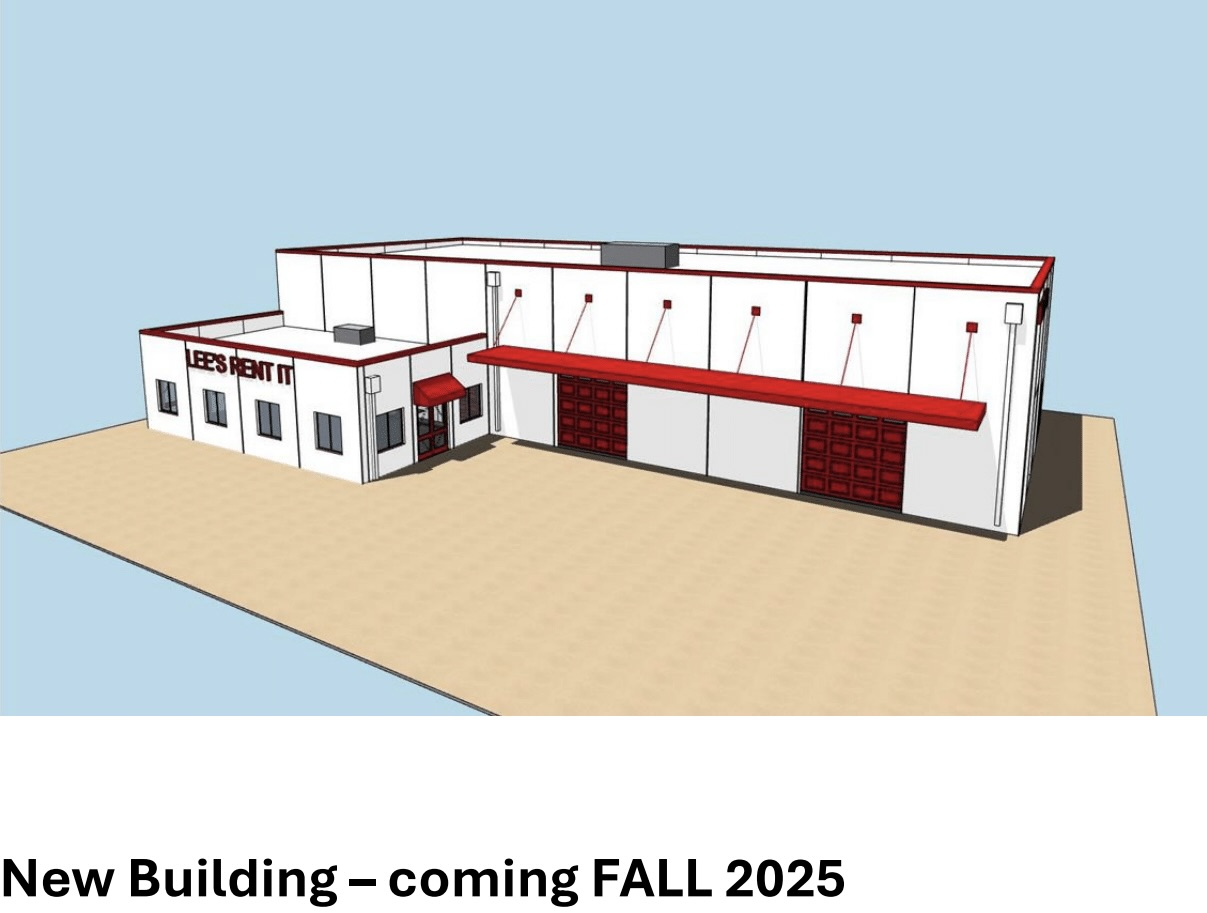
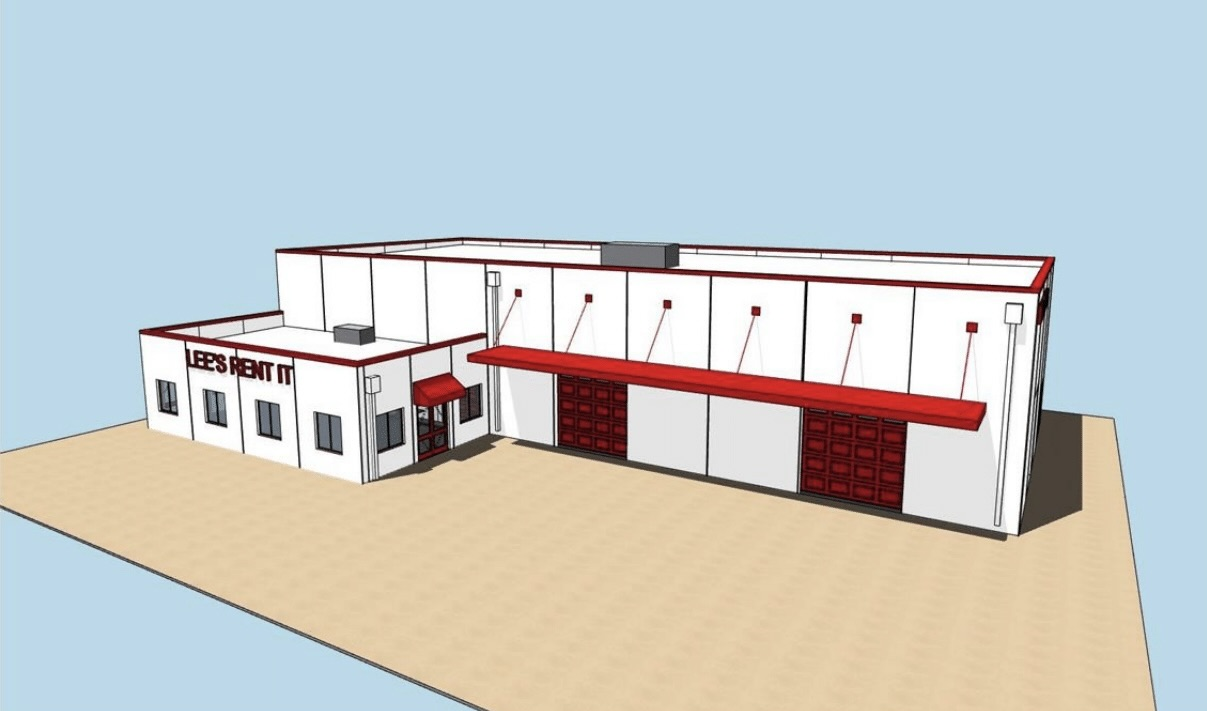
Added small engine repair, changed new building opening date, added a few more items

diff --git a/index.html b/index.html
@@ -77,7 +77,7 @@
         <div class="row">
           <div class="col-lg-12">
             <div class="extension-content text-center" style="background-color: rgb(231, 186, 24); color: white; padding: 15px;">
-              <h5>Mulch Center Now Open!</h5>
+              <h5><strong>Small Engine Repair Now Available! All Makes, All Models</strong></h5>
             </div>
         </div>
       </div>
@@ -130,51 +130,49 @@
 </div>
 </section>
 
-<section class="about section" style="background-color: #F2F2F2;">
+<section class="centered-image-section" style="background-color: #F2F2F2;">
+  <img src="images/smallEngineFlyer.jpg" alt="Small Engine Repair" class="bordered-image">
+</section>
+
+<section class="about section" style="background-color: white; padding: 5px">
   <div class="container">
   <div class="row align-items-center">
     <div class="col-md-6" style="background-color: #9a042f; color: white; border: 4px solid #000; padding: 3%">
       <h2 class="section-subtitle" style="text-align: center;">Check Out Our New Items!</h2>
       <h3 style="font-weight:bold; margin-bottom: 20px;">
-          New Building Coming Fall 2025!
+          New Building Coming Spring 2026!
       </h3>
-      <ul style="list-style-type: disc; padding: 10px; font-size: large;">
-        <li>
-        Mulch Center
-          <ul style="list-style-type: circle; padding-left: 20px; margin-bottom: 10px;">
-              <li>We offer Brown, Black, and Burgundy for $35 a yard</li>
-          </ul>
-        </li>
-        <li>New Cement/Concrete Mixer</li>
-        <li>New Mini Skidsteer</li>
-        <li>New Tow Dollies</li>
-        <li>New Concrete Grinders</li>
-        <li>New Concrete Buggy</li>
+      <ul style="list-style-type: disc; padding: 13px; font-size: large;">
+        <li>New Excavator</li>
+        <li>New Scissor Lift</li>
+        <li>New Tractor</li>
+        <li>New Tractor Attachments</li>
+        <li>New Leaf Vacuum</li>
       </ul>
 
     </div>
-    <div id="photoGallery" class="carousel slide" data-ride="carousel" style="width: 55vh; padding-left: 5%;">
+    <div id="photoGallery" class="carousel slide" data-ride="carousel" style="width: 55vh;">
       <div class="carousel-inner">
         <div class="carousel-item active">
           <img src="images/FirstUpdateItems/New Building.jpeg" class="d-block w-100" alt="Photo 1">
         </div>
         <div class="carousel-item">
-          <img src="images/mulch_center.jpeg" class="d-block w-100" alt="Photo 2">
+          <img src="images/FirstUpdateItems/19 foot scissor lift.jpg" class="d-block w-100" alt="Photo 2">
         </div>
         <div class="carousel-item">
-          <img src="images/FirstUpdateItems/30 in concrete grinder.jpeg" class="d-block w-100" alt="Photo 3">
+          <img src="images/FirstUpdateItems/excavator.jpg" class="d-block w-100" alt="Photo 3">
         </div>
         <div class="carousel-item">
-          <img src="images/FirstUpdateItems/newMiniSkidSteer.png" class="d-block w-100" alt="Photo 4">
+          <img src="images/FirstUpdateItems/leaf vaccume.jpg" class="d-block w-100" alt="Photo 4">
         </div>
         <div class="carousel-item">
-          <img src="images/FirstUpdateItems/concrete buggy WN.jpeg" class="d-block w-100" alt="Photo 5">
+          <img src="images/FirstUpdateItems/tractor.jpg" class="d-block w-100" alt="Photo 7">
         </div>
         <div class="carousel-item">
-          <img src="images/FirstUpdateItems/8 in concrete grinder.jpeg" class="d-block w-100" alt="Photo 6">
+          <img src="images/FirstUpdateItems/tractor attachment 1.jpg" class="d-block w-100" alt="Photo 5">
         </div>
         <div class="carousel-item">
-          <img src="images/FirstUpdateItems/Tow Dolly.jpeg" class="d-block w-100" alt="Photo 7">
+          <img src="images/FirstUpdateItems/tractor attachment 2.jpg" class="d-block w-100" alt="Photo 6">
         </div>
       </div>
       <a class="carousel-control-prev" href="#photoGallery" role="button" data-slide="prev">
@@ -190,7 +188,7 @@
   </div>
 </section>
 
-<section class="about section" style="background-color: #fff;">
+<section class="about section" style="background-color: #F2F2F2;">
   <div class="container">
     <div class="row">
       <div class="col-12"> <!-- This will span the full width -->
@@ -257,7 +255,7 @@
   </div>
 </section>
 
-<section class="feature bg-2" style="background-color: #F2F2F2;">
+<section class="feature bg-2" style="background-color: white;">
   <div class="container">
     <div class="row">
       <!-- Column Location Text-->
@@ -374,7 +372,7 @@
     <div class="row">
       <div class="col-md-12">
         <p class="copyright mb-0">
-          Copyright 2024 &copy; Lee's Rent It LLC. All rights reserved.
+          Copyright 2025 &copy; Lee's Rent It LLC. All rights reserved.
           <br> Contact: leesrentit@outlook.com
         </p>
       </div>

diff --git a/services.html b/services.html
@@ -150,14 +150,35 @@
       <div class="row">
         <div class="col-lg-12">
           <div class="extension-content text-center" style="background-color: rgb(231, 186, 24); color: white; padding: 15px;">
-            <h5>Mulch Center Now Open!</h5>
+            <h5><strong>Small Engine Repair Now Available! All Makes, All Models</strong></h5>
           </div>
       </div>
     </div>
   </div>
   </header>
 
-  <div class="container" style="padding-top: 20vh; width: 93%">
+  <!-- Small Engine Repair – Flyer Section -->
+<div class="container" style="padding-top: 25vh; width: 93%" id="small-engine-flyer">
+  <h1 style="background-color: #9a042f; margin-bottom: 0;">Service Listing</h1>
+
+  <div class="category" style="background-color: white; text-align: center;">
+    <h3 class="flyer-line">Small Engine Repair</h3>
+    <h3 class="flyer-line">Pickup and delivery available!</h3>
+    <h3 class="flyer-line strong">All makes and models</h3>
+
+    <ul class="flyer-list">
+      <li><strong>Lawn mowers</strong> (all makes and models)</li>
+      <li><strong>Snow blowers</strong> (all makes and models)</li>
+      <li><strong>Chain saw repair</strong> (and blade sharpening)</li>
+      <li><strong>Small equipment</strong></li>
+      <li><strong>Blowers / Weed whackers / Pressure washers</strong></li>
+      <li><em><strong>And much more!</strong></em></li>
+    </ul>
+
+  </div>
+</div>
+
+  <div class="container" style="padding-top: 1vh; width: 93%">
     <h1 style="background-color: #9a042f;">Tool Rental Listing</h1>
 
     <div class="category" id="contractor">
@@ -168,8 +189,10 @@
         <li>Airless Paint Sprayers</li>
         <li>Compactors (Gas & Manual)</li>
         <li>Concrete Vibrator/Compactor</li>
+        <li>Excavator</li>
         <li>Generators</li>
         <li>Hoses (Assorted)</li>
+        <li>Scissor Lift</li>
         <li>Lifts (Material)</li>
         <li>Cement/Concrete Mixer</li>
         <li>Nailers (Air & Manual)</li>
@@ -178,6 +201,7 @@
         <li>Skid Steer</li>
         <li>Trenchers</li>
         <li>Tractors</li>
+        <li>Tractor Attachments</li>
         <li>Welders</li>
       </ul>
       <section class="about section" style="background-color: #F2F2F2;">
@@ -194,6 +218,21 @@
             <div class="carousel-inner">
               <div class="carousel-item active">
                 <img src="images/FirstUpdateItems/newMiniSkidSteer.png" class="d-block w-100" alt="Photo 1">
+              </div>
+              <div class="carousel-item">
+                <img src="images/FirstUpdateItems/19 foot scissor lift.jpg" class="d-block w-100" alt="Photo 2">
+              </div>
+              <div class="carousel-item">
+                <img src="images/FirstUpdateItems/excavator.jpg" class="d-block w-100" alt="Photo 2">
+              </div>
+              <div class="carousel-item">
+                <img src="images/FirstUpdateItems/tractor.jpg" class="d-block w-100" alt="Photo 2">
+              </div>
+              <div class="carousel-item">
+                <img src="images/FirstUpdateItems/tractor attachment 1.jpg" class="d-block w-100" alt="Photo 2">
+              </div>
+              <div class="carousel-item">
+                <img src="images/FirstUpdateItems/tractor attachment 2.jpg" class="d-block w-100" alt="Photo 2">
               </div>
               <div class="carousel-item">
                 <img src="images/1Tractor1.JPG" class="d-block w-100" alt="Photo 2">
@@ -273,6 +312,7 @@
         <li>Lawn Rollers</li>
         <li>Lawn Seeders</li>
         <li>Leaf Blowers</li>
+        <li>Leaf Vacuums</li>
         <li>Log Splitters</li>
         <li>Mini Skidsteer</li>
         <li>Mowers (Various Types)</li>
@@ -417,6 +457,9 @@
               </div>
               <div class="carousel-item">
                 <img src="images/7LawnMower2.JPG" class="d-block w-100" alt="Photo 40">
+              </div>
+              <div class="carousel-item">
+                <img src="images/FirstUpdateItems/leaf vaccume.jpg" class="d-block w-100" alt="Photo 40">
               </div>
             </div>
             <a class="carousel-control-prev" href="#lawnGardenGallery" role="button" data-slide="prev">
@@ -679,7 +722,7 @@
       <div class="row">
         <div class="col-md-12">
           <p class="copyright mb-0">
-            Copyright 2024 &copy; Lee's Rent It LLC. All rights reserved.
+            Copyright 2025 &copy; Lee's Rent It LLC. All rights reserved.
             <br> Contact: leesrentit@outlook.com
           </p>
         </div>

diff --git a/css/style.css b/css/style.css
@@ -212,6 +212,97 @@ input[type=tel]:focus {
   box-shadow: none;
 }
 
+.centered-image-section {
+  display: flex;
+  justify-content: center;
+  align-items: center;
+  padding: 40px;
+}
+
+.bordered-image {
+  max-width: 30%;
+  height: auto;
+  border: 6px solid #9a042f; /* red inner border */
+  box-shadow: 0 0 0 6px black; /* black outer border */
+  border-radius: 6px; /* optional, adds softer corners */
+}
+
+/* --- Mobile Optimization --- */
+@media (max-width: 600px) {
+  .centered-image-section {
+    padding: 30px;
+  }
+
+  .bordered-image {
+    max-width: 100%;
+    border: 3px solid #9a042f;
+    box-shadow: 0 0 0 4px black;
+    border-radius: 4px;
+  }
+}
+
+/* --- Flyer Section --- */
+.flyer-card {
+  background: #fff;
+  border: 1px solid #ddd;
+  padding: 0;
+  margin-bottom: 28px;           /* space above Tool Rental Listing */
+  box-shadow: 0 2px 8px rgba(0,0,0,.06);
+}
+
+.flyer-body {
+  padding: 18px 18px 22px;
+  text-align: center;
+}
+
+.flyer-line {
+  font-weight: 600;
+  margin: 6px 0;
+  line-height: 1.2;
+  font-size: clamp(18px, 2.6vw, 28px);
+}
+
+.flyer-line.strong {
+  font-size: clamp(20px, 3vw, 32px);
+  text-transform: none;
+}
+
+.flyer-list {
+  margin: 16px auto 0;
+  padding: 0;
+  max-width: 920px;
+  display: grid;
+  grid-template-columns: 1fr 1fr;  /* 2 columns on desktop */
+  gap: 8px 20px;
+  text-align: left;
+}
+
+.flyer-list li {
+  background: #f9f9f9;
+  border: 1px solid #e7e7e7;
+  border-radius: 6px;
+  padding: 10px 12px;
+  line-height: 1.35;
+  font-size: clamp(14px, 1.4vw, 16px);
+}
+
+.flyer-call {
+  margin-top: 6px;
+  border-radius: 999px;
+  padding: 10px 18px;
+}
+
+/* --- Mobile tweaks --- */
+@media (max-width: 768px) {
+  .flyer-list {
+    grid-template-columns: 1fr;  /* stack to one column on tablets/phones */
+    gap: 10px;
+  }
+  .flyer-body {
+    padding: 14px;
+  }
+}
+
 .mt-10 {
   margin-top: 20px;
 }

diff --git a/contact.html b/contact.html
@@ -76,7 +76,7 @@
       <div class="row">
         <div class="col-lg-12">
           <div class="extension-content text-center" style="background-color: rgb(231, 186, 24); color: white; padding: 15px;">
-            <h5>Mulch Center Now Open!</h5>
+            <h5><strong>Small Engine Repair Now Available! All Makes, All Models</strong></h5>
           </div>
       </div>
     </div>
@@ -153,7 +153,7 @@
       <div class="row">
         <div class="col-md-12">
           <p class="copyright mb-0">
-            Copyright 2024 &copy; Lee's Rent It LLC. All rights reserved.
+            Copyright 2025 &copy; Lee's Rent It LLC. All rights reserved.
             <br> Contact: leesrentit@outlook.com
           </p>
         </div>

diff --git a/about.html b/about.html
@@ -76,7 +76,7 @@
       <div class="row">
         <div class="col-lg-12">
           <div class="extension-content text-center" style="background-color: rgb(231, 186, 24); color: white; padding: 15px;">
-            <h5>Mulch Center Now Open!</h5>
+            <h5><strong>Small Engine Repair Now Available! All Makes, All Models</strong></h5>
           </div>
       </div>
     </div>
@@ -184,7 +184,7 @@
     <div class="row">
       <div class="col-md-12">
         <p class="copyright mb-0">
-          Copyright 2024 &copy; Lee's Rent It LLC. All rights reserved.
+          Copyright 2025 &copy; Lee's Rent It LLC. All rights reserved.
           <br> Contact: leesrentit@outlook.com
         </p>
       </div>
